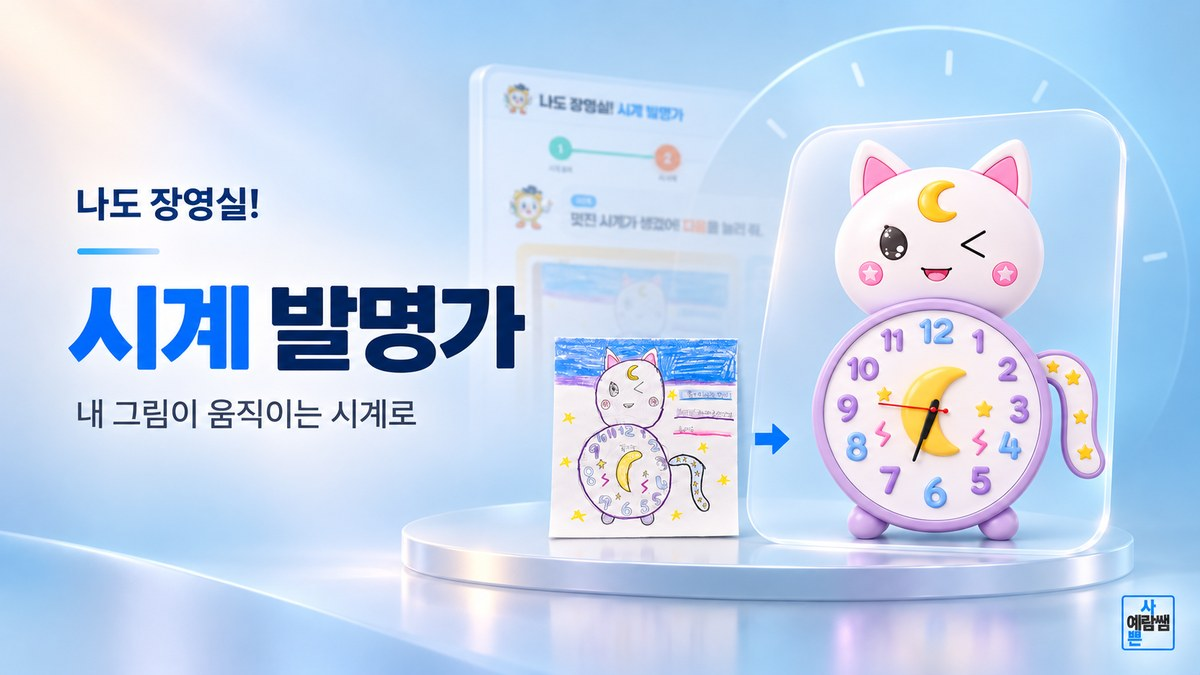
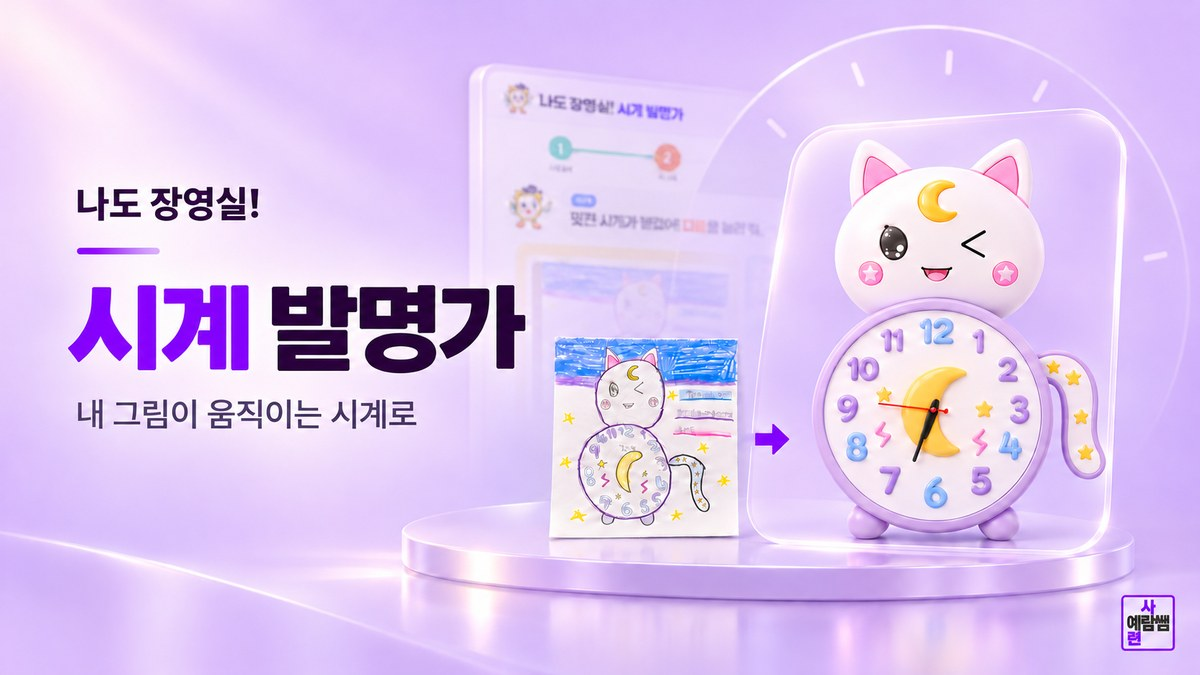
시계 발명가 링크 미리보기 이미지 변경 (보라)
Claude-Session: https://claude.ai/code/session_011RAumJ6zKt8iRoF7oxKEAc

diff --git a/index.html b/index.html
@@ -10,12 +10,12 @@
 <meta property="og:title" content="나도 장영실! 시계 발명가">
 <meta property="og:description" content="내가 그린 그림이 진짜 움직이는 시계로! 그림 넣기 → 바늘 꾸미기 → 갤러리">
 <meta property="og:url" content="https://dpfkadpfka.github.io/jangyeongsil-clock/">
-<meta property="og:image" content="https://dpfkadpfka.github.io/jangyeongsil-clock/og.jpg?v=2">
+<meta property="og:image" content="https://dpfkadpfka.github.io/jangyeongsil-clock/og.jpg?v=3">
 <meta property="og:image:width" content="1200">
 <meta property="og:image:height" content="675">
 <meta property="og:site_name" content="예람쌤">
 <meta name="twitter:card" content="summary_large_image">
-<meta name="twitter:image" content="https://dpfkadpfka.github.io/jangyeongsil-clock/og.jpg?v=2">
+<meta name="twitter:image" content="https://dpfkadpfka.github.io/jangyeongsil-clock/og.jpg?v=3">
 <link rel="apple-touch-icon" href="apple-touch-icon.png">
 <link rel="preload" href="fonts/allimjang-b.woff2" as="font" type="font/woff2" crossorigin>
 <link rel="preload" href="fonts/freesentation-800.woff2" as="font" type="font/woff2" crossorigin>
